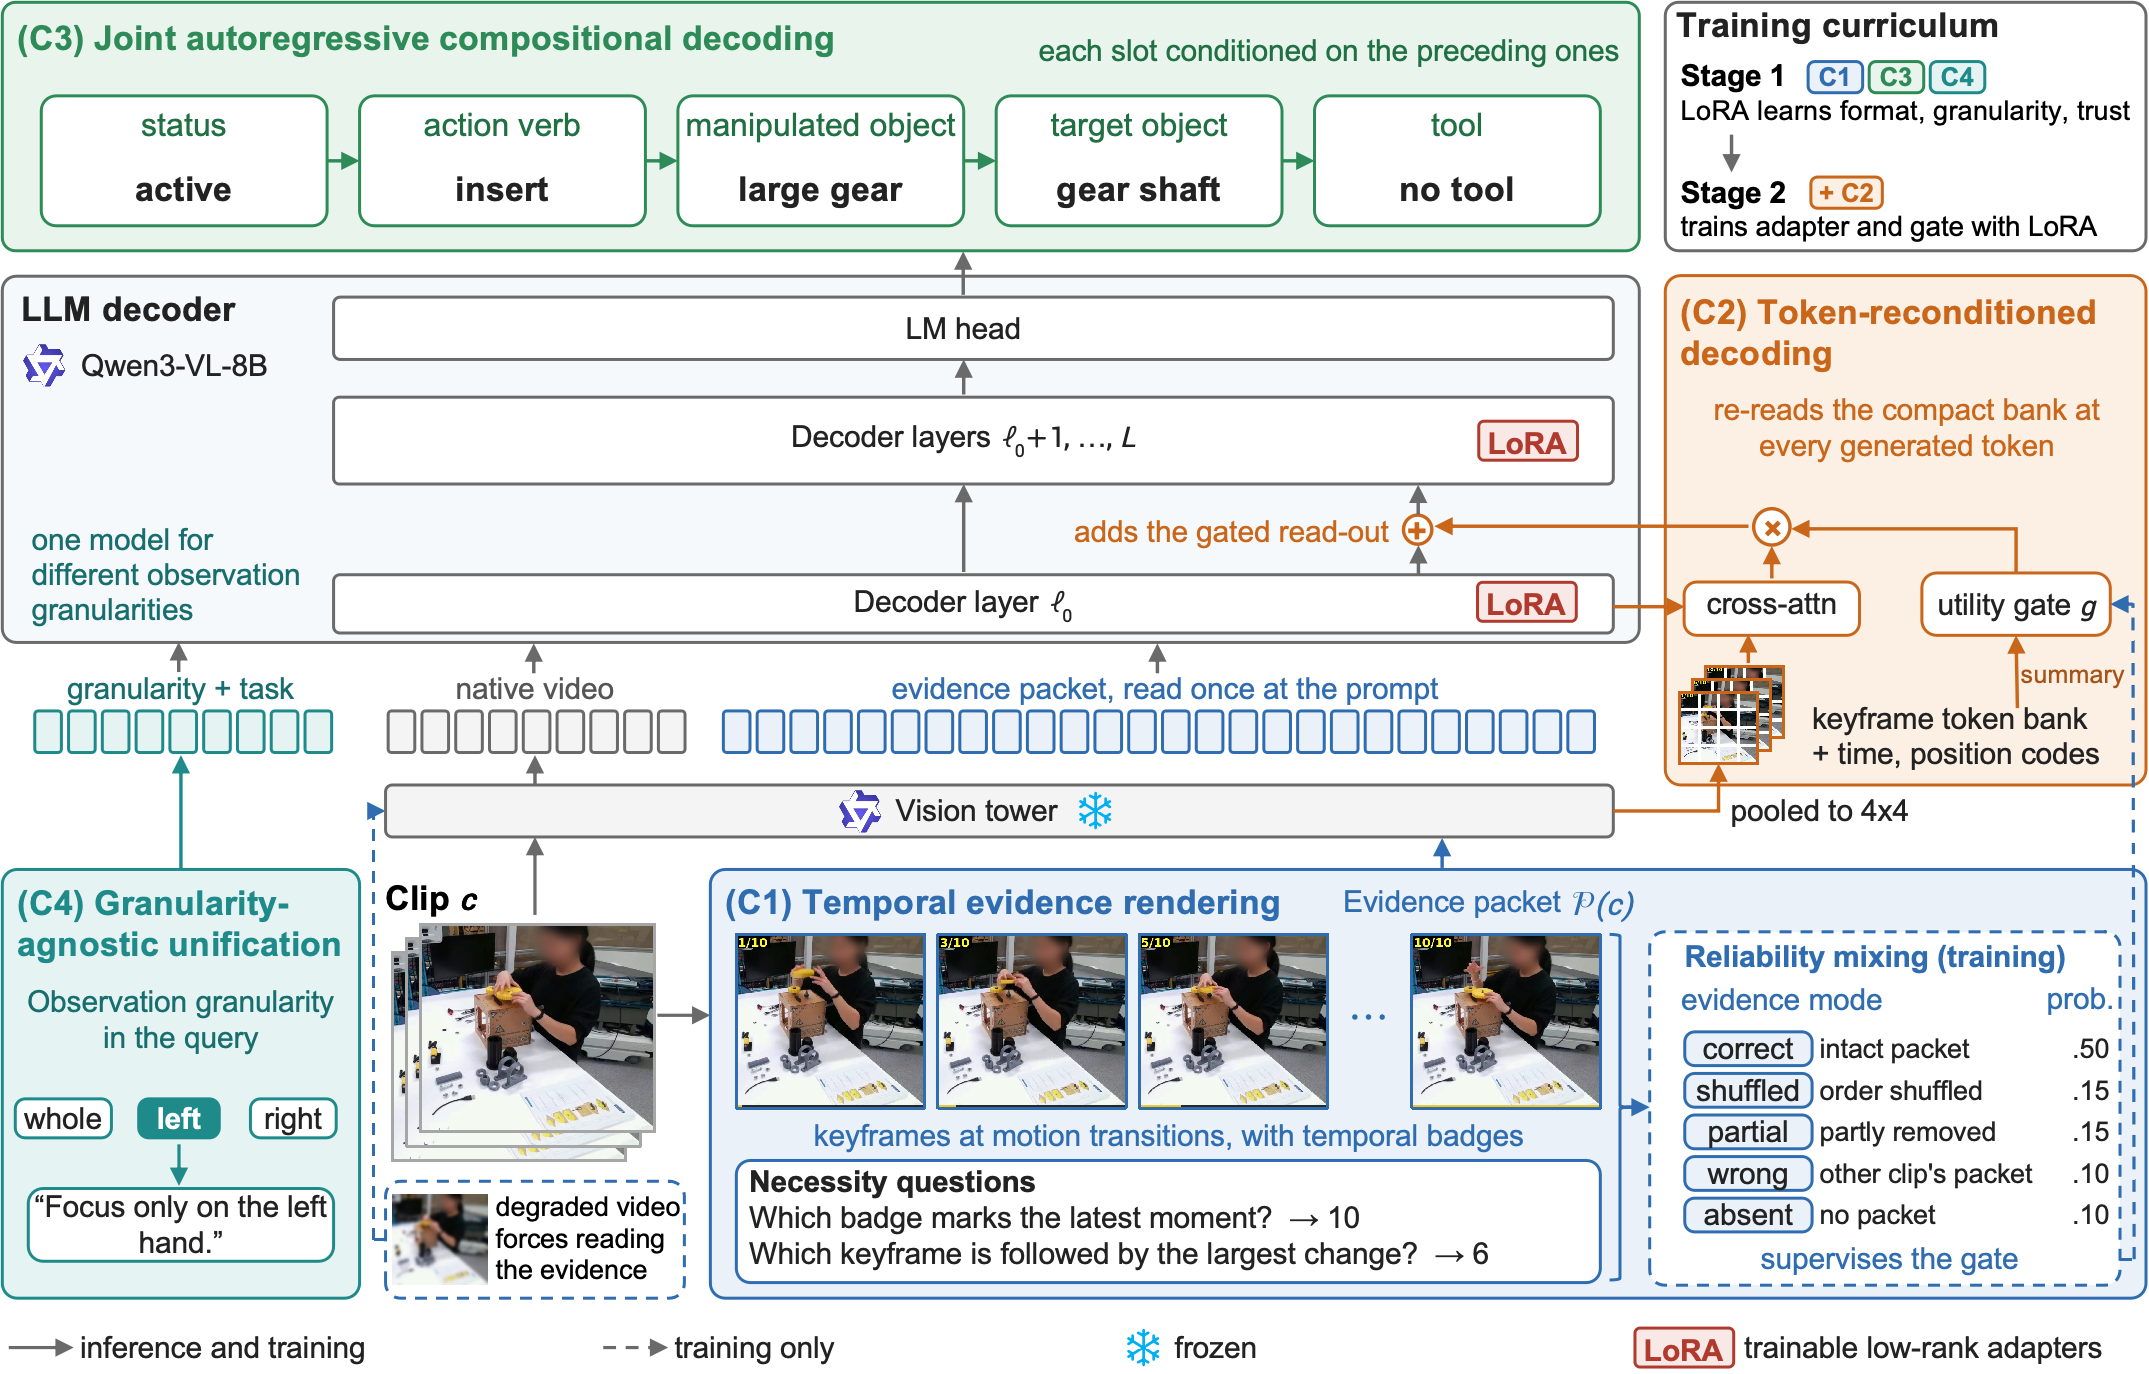
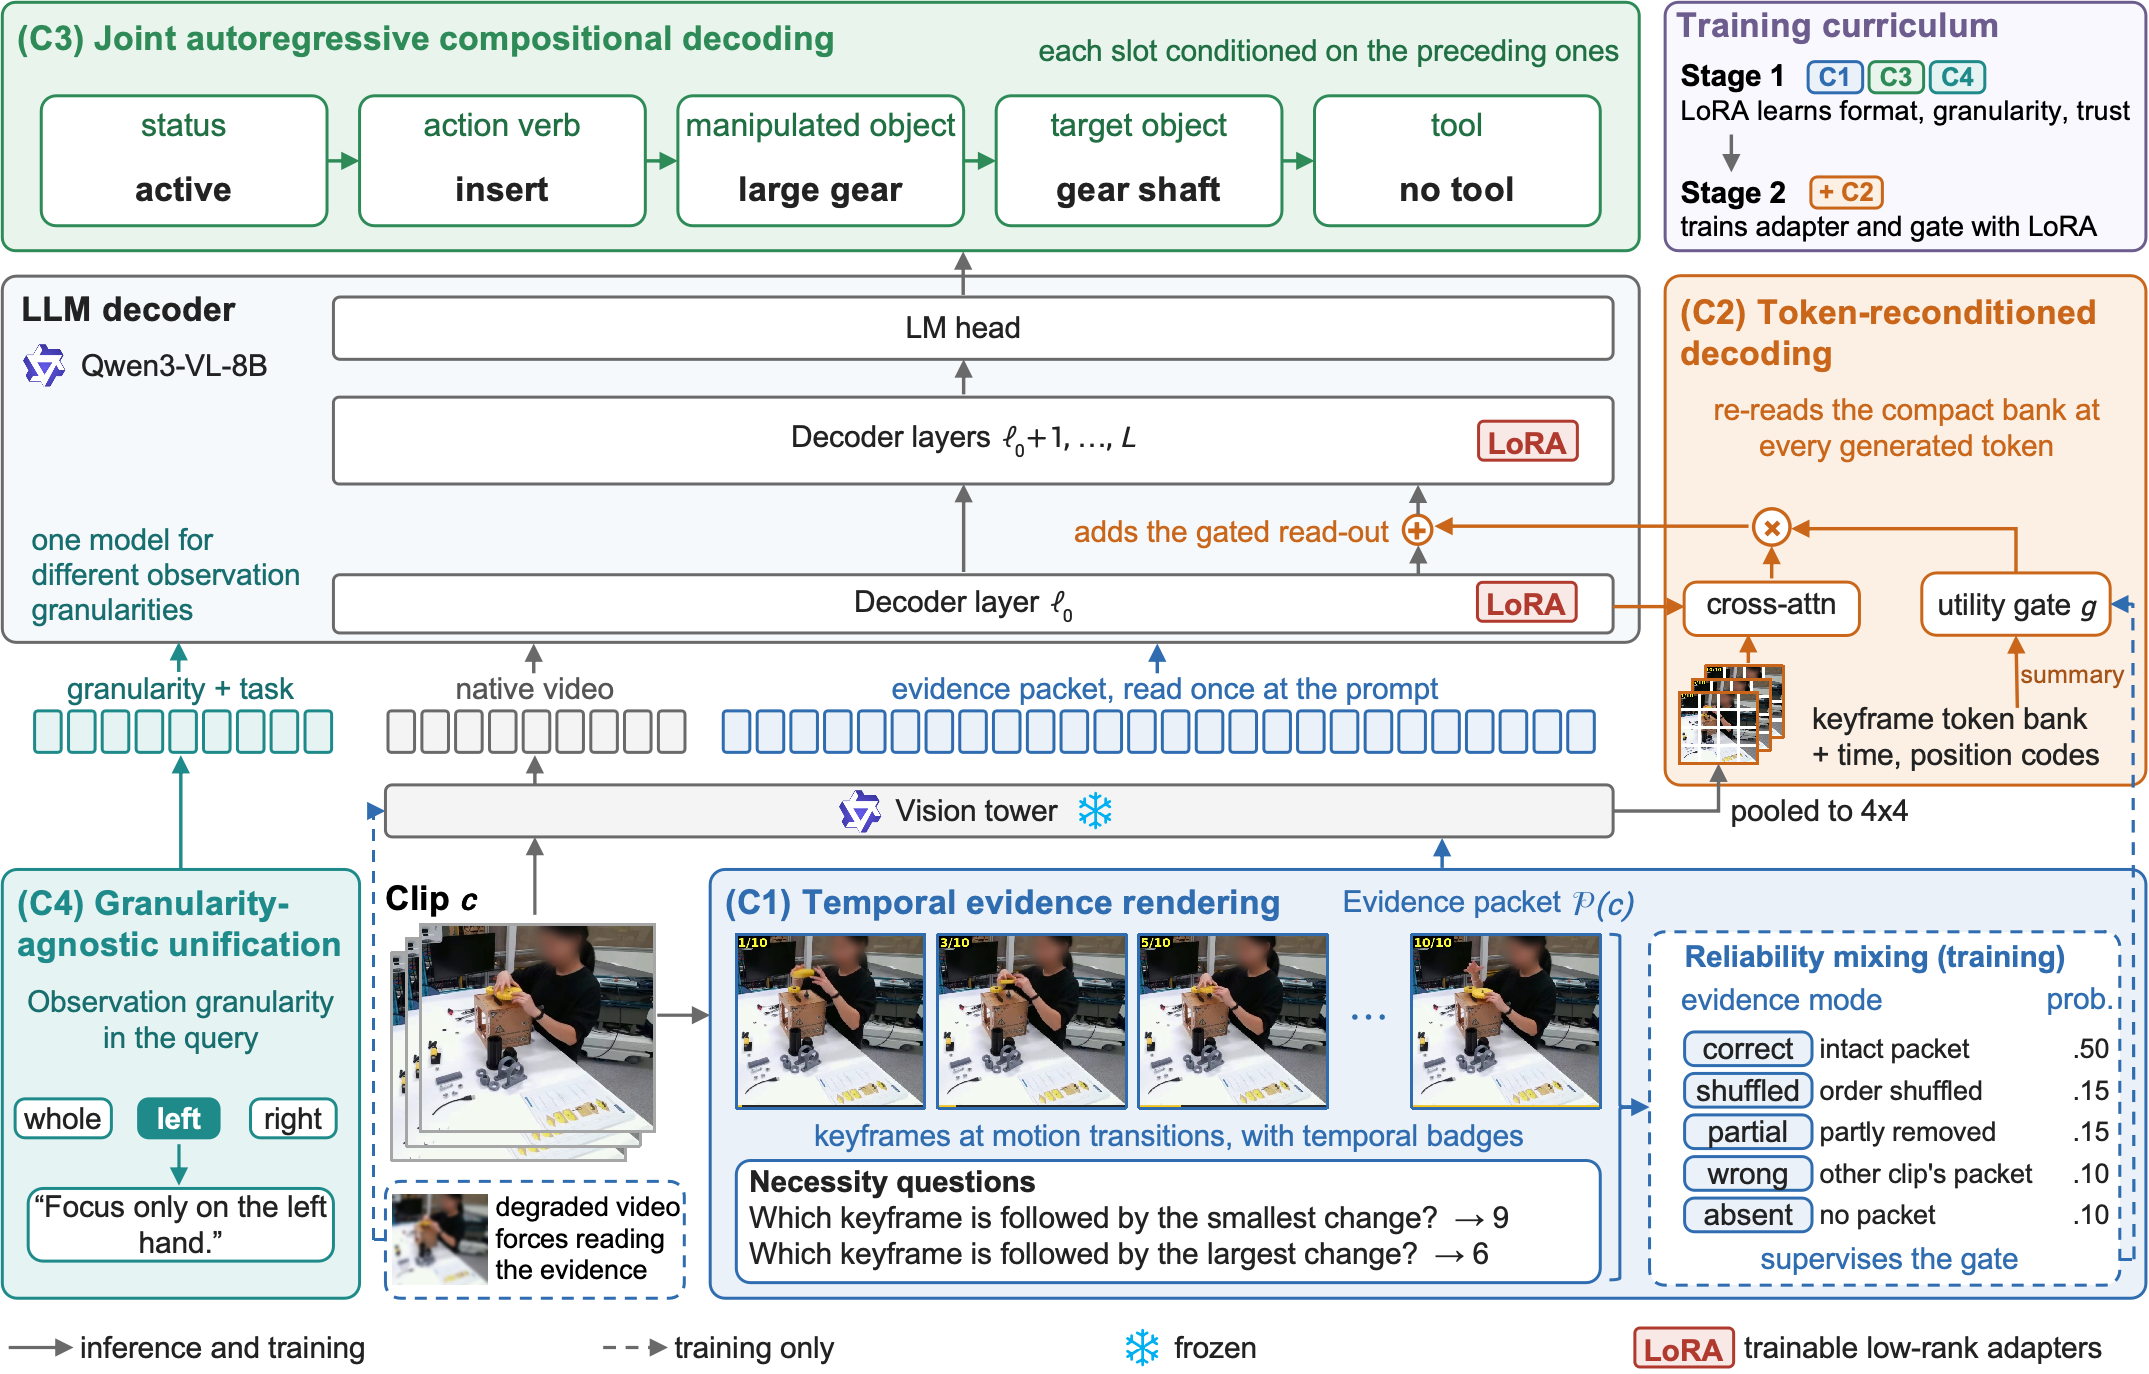
Align code with the paper: graded gate target, smallest-change necessity QA
- Graded (ternary) gate target: shuffled/partial now half-open (0.5), matching
  the updated Section 3.2.3 in the paper
- Corruption schedule -> {correct .50, shuffled .15, partial .15, wrong .10, absent .10}
- Replace the constant-answer "latest" necessity question with a content-dependent
  "smallest change" question (min_change_after_kf), removing the always-10 shortcut
- Update the system-architecture figure (fig_overview.png)

diff --git a/data/evidence.py b/data/evidence.py
@@ -6,7 +6,8 @@ Produces, per clip:
   metadata about *when*, never assertions about *what* — no extracted physics
   is drawn as content.
 - necessity metadata with verifiable answers for evidence-reading QA:
-  pixel-arithmetic change localization and the latest keyframe.
+  pixel-arithmetic localization of the largest and smallest changes between
+  consecutive keyframes.
 
 Hand tracking is used ONLY for frame selection — it is never rendered.
 Contact/trajectory assertions are deliberately absent.
@@ -324,16 +325,18 @@ def degrade_video(source: Path, destination: Path, cfg: dict[str, Any]) -> None:
 
 # ------------------------------------------------------------------ builder ---
 
-def keyframe_change_pair(frames: list[np.ndarray], keyframe_indices: list[int]) -> int:
+def keyframe_change_pair(frames: list[np.ndarray], keyframe_indices: list[int], mode: str = "max") -> int:
     """Pixel-arithmetic answer: between which consecutive keyframes is the change
-    largest? Returns the 1-based ordinal of the earlier keyframe of the pair.
+    largest (mode="max") or smallest (mode="min")? Returns the 1-based ordinal of
+    the earlier keyframe of the pair.
     Assumption-free (pure frame differencing), so safe as a necessity QA target."""
     import cv2
     if len(keyframe_indices) < 2:
         return 1
     gray = [cv2.resize(cv2.cvtColor(frames[i], cv2.COLOR_RGB2GRAY), (160, 90)) for i in keyframe_indices]
     diffs = [float(np.mean(cv2.absdiff(a, b))) for a, b in zip(gray, gray[1:])]
-    return int(np.argmax(diffs)) + 1
+    idx = int(np.argmax(diffs)) if mode == "max" else int(np.argmin(diffs))
+    return idx + 1
 
 def process_record(row: dict[str, Any], cfg: dict[str, Any]) -> dict[str, Any]:
     clip_id = row["clip_id"]
@@ -388,8 +391,8 @@ def process_record(row: dict[str, Any], cfg: dict[str, Any]) -> dict[str, Any]:
 
     # Necessity QA metadata (all answers verifiable; hand answer validity-gated).
     necessity: dict[str, Any] = {
-        "keyframe_count": len(keyframes),
         "max_change_after_kf": keyframe_change_pair(frames, keyframes),
+        "min_change_after_kf": keyframe_change_pair(frames, keyframes, mode="min"),
     }
     if cfg["evidence"].get("include_degraded_video", True):
         degraded = out / "degraded.mp4"

diff --git a/model/corruption.py b/model/corruption.py
@@ -3,8 +3,8 @@
 Matches the paper's five modes (Section 3.2.3): an intact packet (correct), a
 shuffled keyframe order (shuffled), a partially removed packet (partial),
 substitution by another clip's packet (wrong), and complete removal (absent).
-Each mode carries a binary arbitration target: only an intact packet still
-depicts the queried clip with usable structure.
+Each mode carries a graded gate target: intact evidence opens the gate, a
+degraded but same-clip packet half-opens it, and a wrong or absent packet closes it.
 """
 from __future__ import annotations
 
@@ -18,19 +18,20 @@ CorruptionMode = Literal["correct", "shuffled", "partial", "wrong", "absent"]
 
 DEFAULT_SCHEDULE: dict[str, float] = {
     "correct": 0.50,
-    "shuffled": 0.11,
-    "partial": 0.17,
-    "wrong": 0.11,
-    "absent": 0.11,
+    "shuffled": 0.15,
+    "partial": 0.15,
+    "wrong": 0.10,
+    "absent": 0.10,
 }
 
 RELIABILITY_MODES: list[str] = ["correct", "shuffled", "partial", "wrong", "absent"]
 
-# Binary arbitration target of Eq. (arbitration): a(m) = 1 only for an intact packet.
+# Graded gate target of Eq. (arbitration): a(m) = 1 (correct), 1/2 (shuffled,
+# partial), 0 (wrong, absent).
 GATE_TARGET: dict[str, float] = {
     "correct": 1.0,
-    "shuffled": 0.0,
-    "partial": 0.0,
+    "shuffled": 0.5,
+    "partial": 0.5,
     "wrong": 0.0,
     "absent": 0.0,
 }
@@ -81,7 +82,7 @@ def arbitration_label(draw: CorruptionDraw) -> str:
 
 
 def gate_target(mode: str | None) -> float:
-    """Reliability gate binary target: 1 open, 0 closed."""
+    """Reliability gate graded target: 1 open, 0.5 degraded, 0 closed."""
     return GATE_TARGET.get(mode, 0.0)
 
 

diff --git a/model/prompts.py b/model/prompts.py
@@ -44,8 +44,9 @@ NECESSITY_PROMPTS = {
     "change": ("Look at the badge numbers on the keyframes. Between which keyframe and the next one "
                "does the largest visible change in the workspace occur? Answer with the badge number "
                "of the earlier keyframe only."),
-    "latest": ("Look at the badge numbers and progress bars on the keyframes. Which badge number "
-               "corresponds to the latest moment in the clip? Answer with the number only."),
+    "smallest": ("Look at the badge numbers on the keyframes. Between which keyframe and the next one "
+                 "does the smallest visible change in the workspace occur? Answer with the badge number "
+                 "of the earlier keyframe only."),
 }
 
 ARBITRATION_PROMPT = (
@@ -193,7 +194,7 @@ def necessity_items(cfg: dict[str, Any], row: dict[str, Any], spec: dict[str, An
         items.append({"row": row, "task": "change", "answer": str(necessity.get("max_change_after_kf", 1)),
                       "degraded": False, "corruption": None})
     if rng.random() < fraction:
-        items.append({"row": row, "task": "latest", "answer": str(necessity.get("keyframe_count", 1)),
+        items.append({"row": row, "task": "smallest", "answer": str(necessity.get("min_change_after_kf", 1)),
                       "degraded": False, "corruption": None})
     return items
 

diff --git a/tests/test_model.py b/tests/test_model.py
@@ -39,8 +39,8 @@ def test_parse_and_exact_scoring():
 
 def test_gate_targets():
     assert gate_target("correct") == 1.0
-    assert gate_target("shuffled") == 0.0
-    assert gate_target("partial") == 0.0
+    assert gate_target("shuffled") == 0.5
+    assert gate_target("partial") == 0.5
     assert gate_target("wrong") == 0.0
     assert gate_target("absent") == 0.0
 
